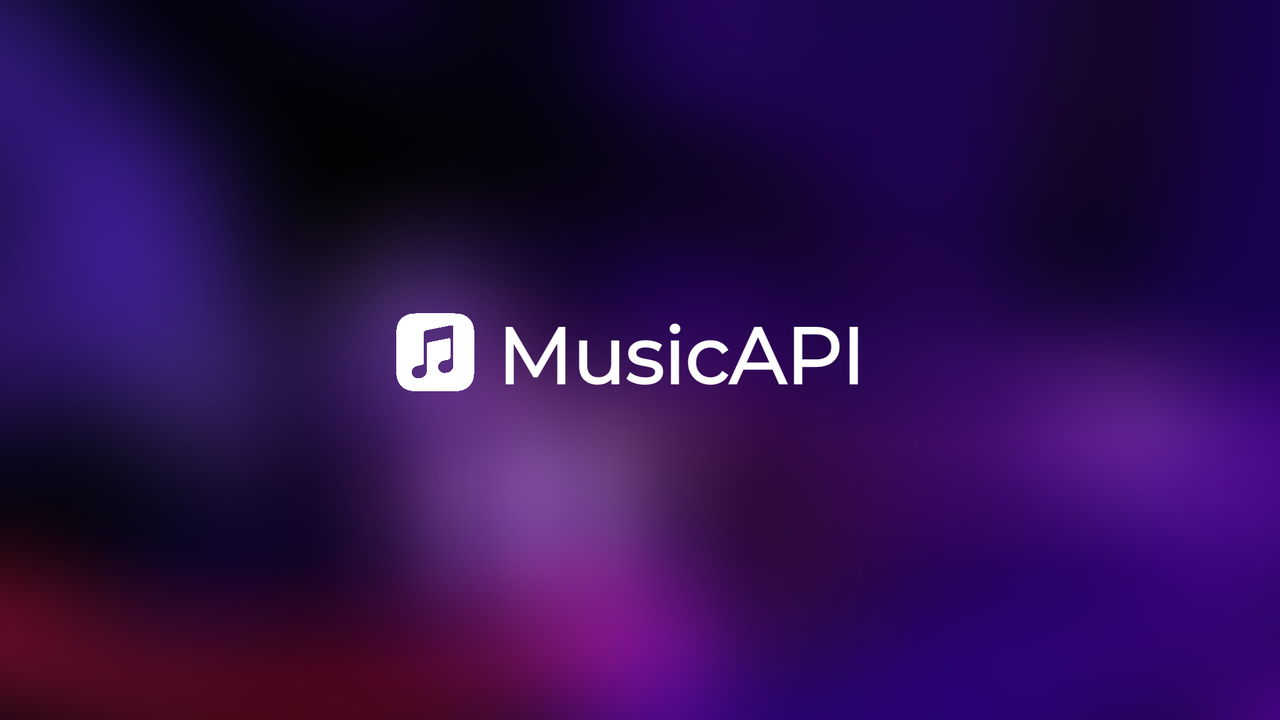
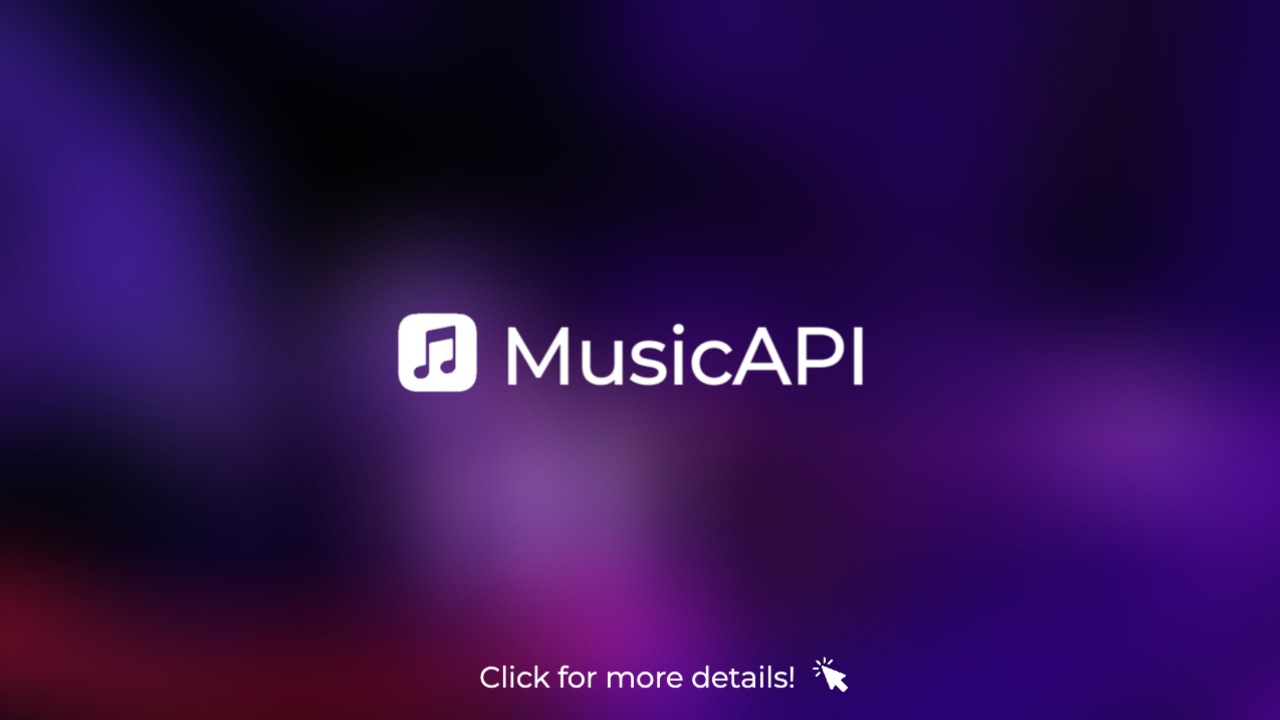
Projects details

Changed region(s): [[0.3125, 0.4278, 0.6875, 0.55], [0.375, 0.9167, 0.6562, 0.9778]]

diff --git a/src/components/Projects/Projects.jsx b/src/components/Projects/Projects.jsx
@@ -42,7 +42,6 @@ const Projects = () => {
             src="./hotel.jpg"
             alt="not found"
           />
-          <div className="imageDetails">Click the image for more details</div>
           <div className="imageProjectText">
             <h1>HENRY HOTEL</h1>
           </div>
@@ -57,7 +56,6 @@ const Projects = () => {
             src="./music.jpg"
             alt="not found"
           />
-          <div className="imageDetails">Click the image for more details</div>
           <div className="imageProjectText">
             <h1>MusicAPI</h1>
           </div>
@@ -72,7 +70,6 @@ const Projects = () => {
             src="./games.jpg"
             alt="not found"
           />
-          <div className="imageDetails">Click the image for more details</div>
           <div className="imageProjectText">
             <h1>GameLibrary</h1>
           </div>

diff --git a/src/components/Projects/Projects.less b/src/components/Projects/Projects.less
@@ -27,7 +27,7 @@
   .imageProject1Container {
     .imageDetails {
       margin-top: 1rem;
-      color: rgb(92, 92, 92);
+      color: rgb(255, 255, 255);
     }
     .imageProject1 {
       z-index: 999999999 !important;
@@ -42,7 +42,7 @@
     margin-top: 10%;
     .imageDetails {
       margin-top: 1rem;
-      color: rgb(92, 92, 92);
+      color: rgb(255, 255, 255);
     }
     .imageProject2 {
       z-index: 999999999 !important;
@@ -56,7 +56,7 @@
     margin-top: -28%;
     .imageDetails {
       margin-top: 1rem;
-      color: rgb(92, 92, 92);
+      color: rgb(255, 255, 255);
     }
     .imageProject3 {
       z-index: 999999999 !important;
